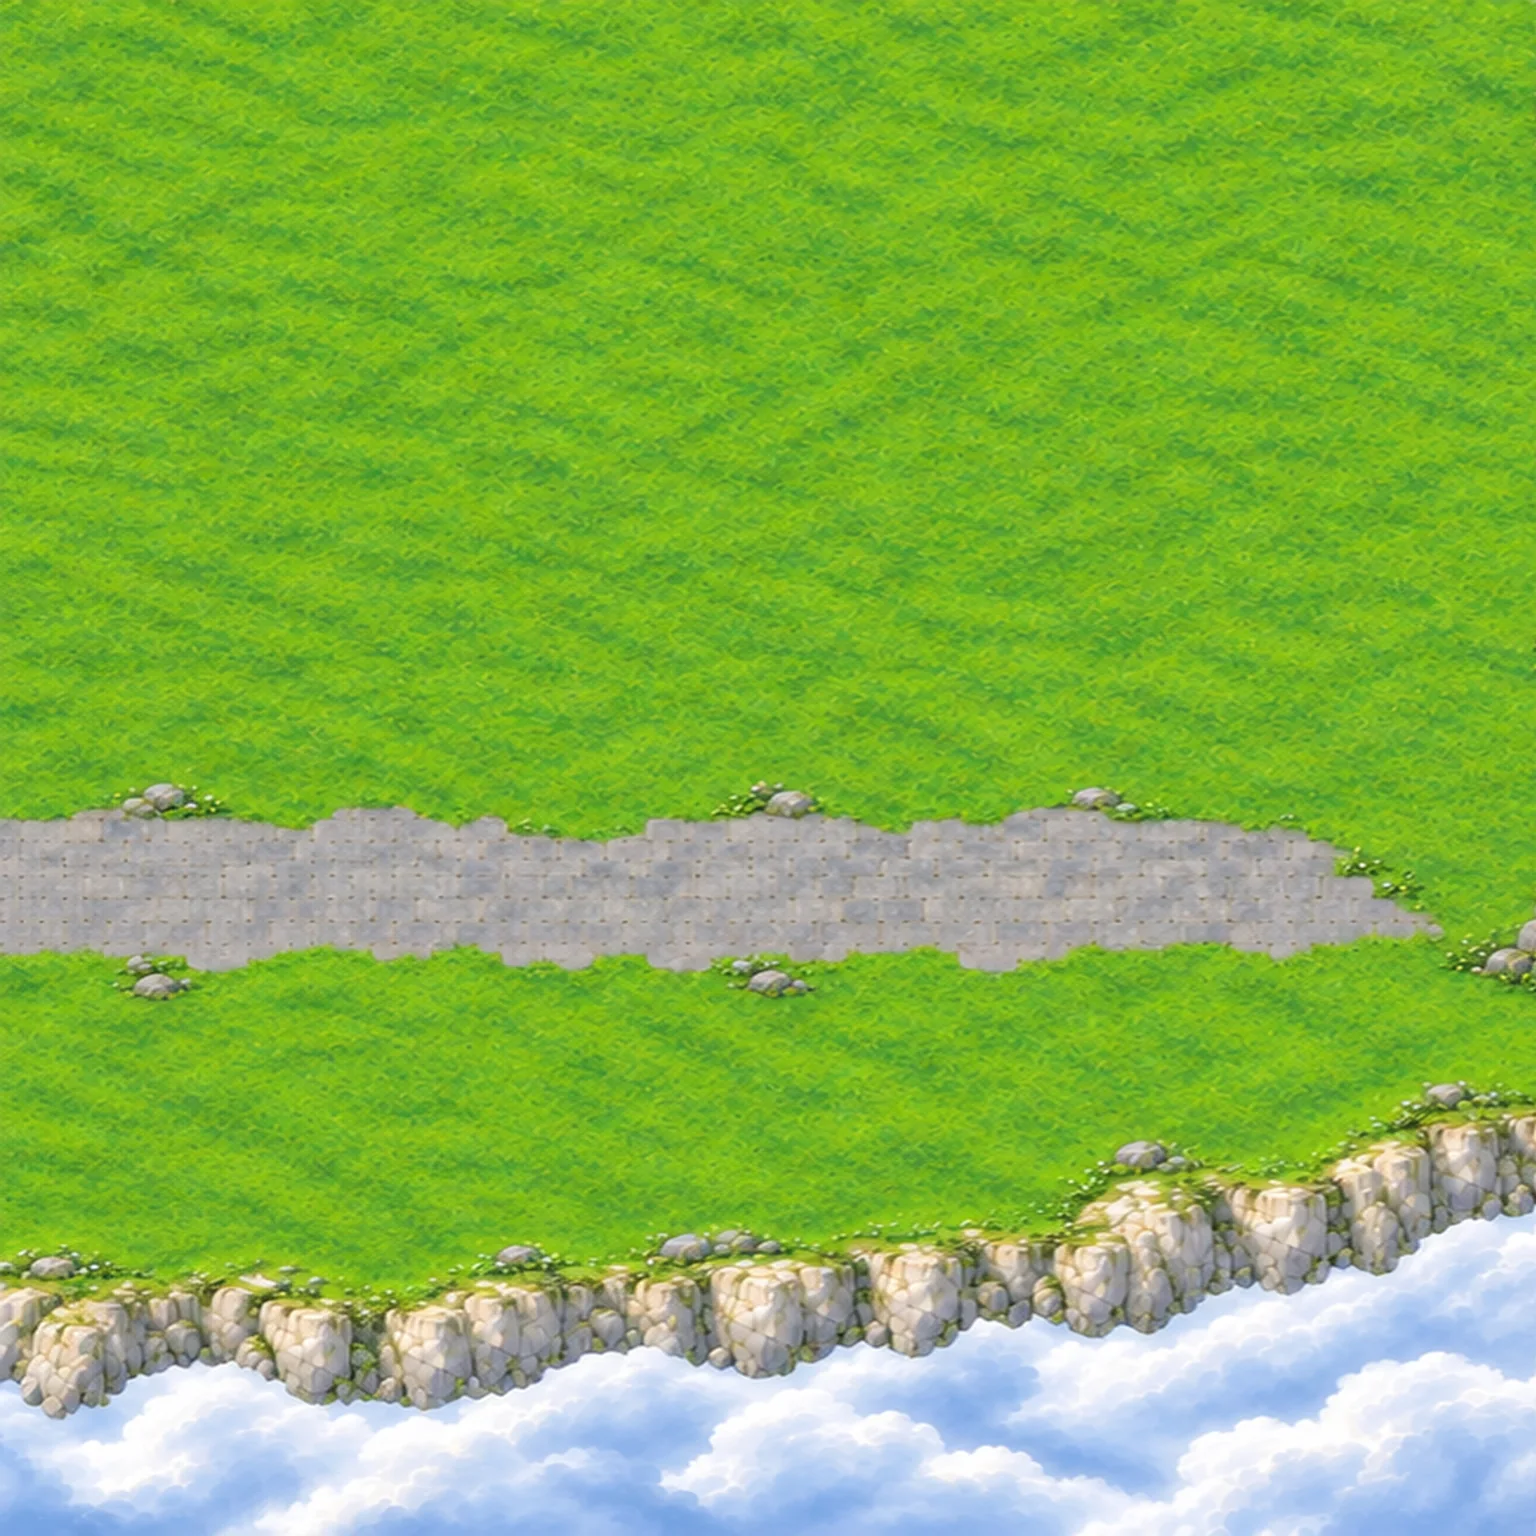
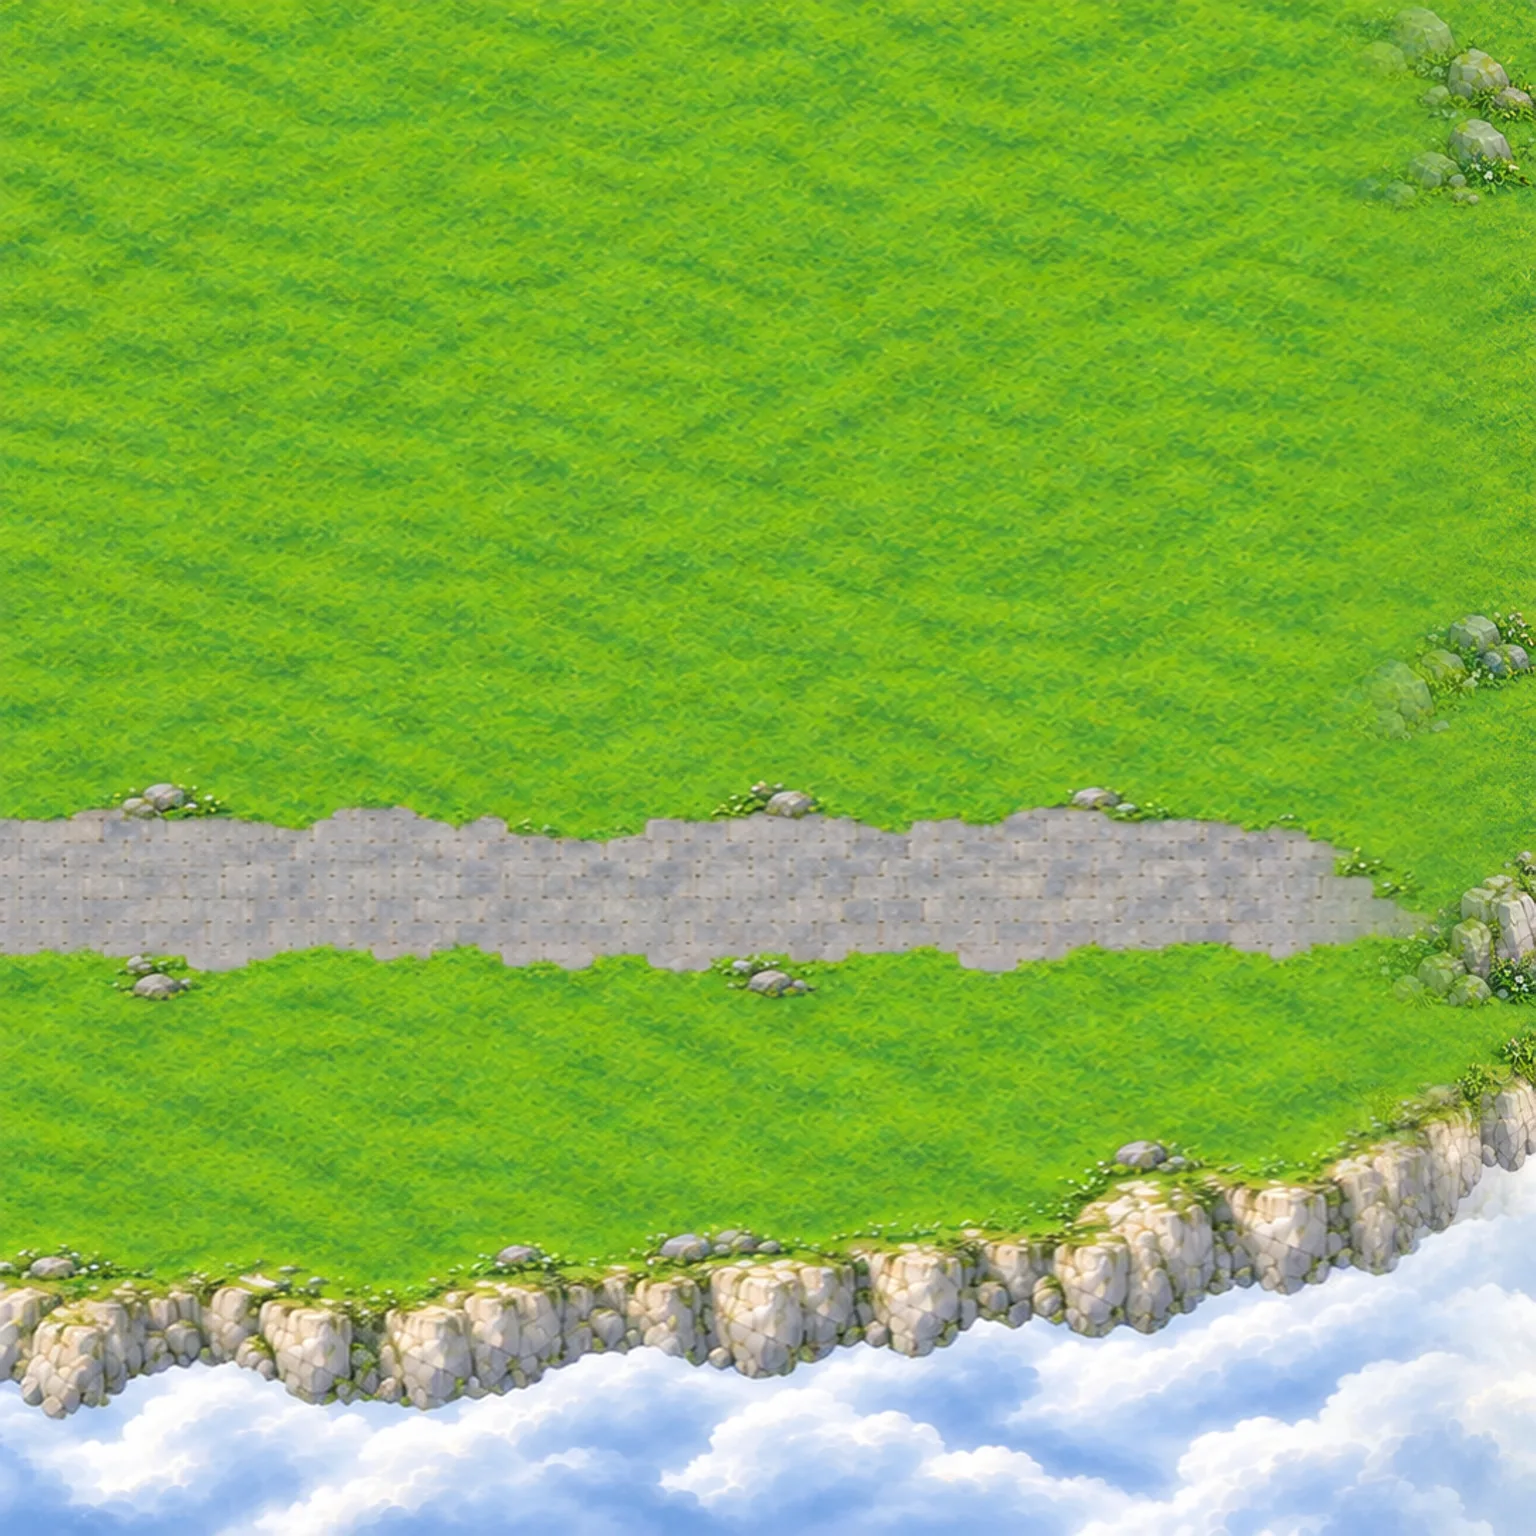
v454 云海后庭改成云海大亭往西扩建（一张图走过去，同青竹西院 T.x0/T.c0 做法）；接缝镜像羽化；观星改地图内演出
Claude-Session: https://claude.ai/code/session_01MLmwgsq8MPeyfrtaz8BRE2

Changed region(s): [[0.875, 0.0, 1.0, 1.0]]

diff --git a/game/r137_qz.js b/game/r137_qz.js
@@ -1,11 +1,12 @@
-// ================= R137 · 后山亭子（云海大亭）换小亭 + 西侧新地图「云海后庭」（Claude 11-07，Codex R134 E2 / E2b 素材）=================
-// 作者：亭子换成 Codex 新画的青绿单层小亭；西边扩出一块叶孤星和下人们一起吃饭、看星星的地方（长饭桌 A 青玉流云 + 花圃 + 崖边观星台）。
-// 下人房不放这里（作者 11-07：已挪到青竹小院），所以云海大亭里原来那栋仆役房外观和门一并撤掉。
-// 云海大亭原图坐标不动（剧情、天鹏、宝箱都按原坐标写的）；新地块做成独立小地图，从亭子西边竹林口走过去。
+// ================= R137 · 后山云海大亭：换 Codex 小亭 + 往西扩建「云海后庭」（Claude 11-07，Codex R134 E2 / E2b 素材）=================
+// 作者：亭子换成 Codex 新画的青绿单层小亭；西边扩出一块叶孤星和下人们一起吃饭、看星星的地方（长饭桌 A 青玉流云 + 牡丹/百合大花圃 + 竹林石灯 + 崖边观星台）。
+// 下人房不放这里（作者 11-07：已挪到青竹小院西院），云海大亭原来那栋仆役房外观和门一并撤掉。
+// 和青竹小院西扩（r136_west.js）同一套做法：一张图直接走过去，不是另一张图——原坐标一个不动（剧情、天鹏、宝箱照旧），
+// 扩出来的 1536px 落在 x < 0（-1536 ~ 0），碰撞表每行前面接 192 列，T.x0 / T.c0 交给引擎处理镜头、寻路、站位。
 // 关掉：localStorage.r137qz = '0'
 (function () {
-  const D = window.R137QZ, PAV = 'qingzhu_upper_pavilion', BY = 'qingzhu_backyard';
-  if (!D || typeof TMAPS === 'undefined' || !TMAPS[PAV] || typeof tileSetMap !== 'function') return;
+  const D = window.R137QZ, PAV = 'qingzhu_upper_pavilion', OX = 1536;
+  if (!D || typeof TMAPS === 'undefined' || !TMAPS[PAV] || typeof tileSetMap !== 'function' || typeof buildTileMap !== 'function') return;
   try { if (localStorage.getItem('r137qz') === '0') return; } catch (e) {}
   const R = 'r137/', ld = (k, f) => { if (IMG[k]) return; const i = new Image(); i.onload = () => { IMG[k] = i; }; i.src = R + f + '.webp'; };
   let loaded = false;
@@ -14,46 +15,49 @@
     ld('r137_by_ground', 'by_ground'); };
   setTimeout(loadAll, 12000);
   const P = (x, y) => [x / 64 - .5, y / 64 - .8];
-  const cellsX = (x0, x1) => [Math.floor(x0 / 8), Math.ceil((x1 - x0) / 8)];
+  const BB = D.by, YC = BB.cols;                                  // 扩建区 192 列 × 192 行（8px）
+  const BOBJ = BB.objs.map(o => Object.assign({}, o, { x: o.x - OX }));
+  const SP = {}; for (const k in BB.spots) SP[k] = [BB.spots[k][0] - OX, BB.spots[k][1]];
 
-  // ---------- 云海大亭：撤旧大亭 / 仆役房，换小亭 ----------
+  // ---------- 碰撞 + 物件：地图构建时把西边接上 ----------
   const M = TMAPS[PAV];
   M.exits = (M.exits || []).filter(e => e.to !== 'qingzhu_servant_room');
-  M.exits.push({ x: 0, y: 100, w: 2, h: 16, to: BY, label: '西 · 云海后庭', at: P(1470, 868), face: 'left' });
-  try { if (typeof MAP_ZOOM !== 'undefined') MAP_ZOOM[BY] = .75; } catch (e) {}
-  const fixPav = () => {
-    const T = world.map && world.map.T; if (!T || !T.block) return;
-    T.objs = T.objs.filter(o => !(o.uid && /^r90-/.test(o.uid)) && o.id !== 'r135e_house' && !/^qingzhu-r24-pavilion/.test(o.id || '') && !/^r137pav_/.test(o.uid || ''));
-    for (const o of D.pav.objs) T.objs.push(Object.assign({ bk: true }, o));
-    const B = D.pav.blocked; for (let r = 0; r < T.rows; r++) for (let c = 0; c < T.cols; c++) T.block[r][c] = B.charCodeAt(r * 256 + c) === 49 ? 1 : 0;
-  };
+  const applyBlock = T => { const PB = D.pav.blocked, YB = BB.blocked;
+    for (let r = 0; r < T.rows; r++) { const row = T.block[r]; for (let c = 0; c < YC; c++) row[c] = YB.charCodeAt(r * YC + c) === 49 ? 1 : 0; for (let c = 0; c < 256; c++) row[YC + c] = PB.charCodeAt(r * 256 + c) === 49 ? 1 : 0; }
+    T._stand = null; };
+  buildTileMap = (o => function (def) {
+    const T = o.apply(this, arguments);
+    try {
+      if (def !== M || !T || !T.baked || T.cs !== 8 || T.rows !== BB.rows || T.c0) return T;
+      for (let r = 0; r < T.rows; r++) T.block[r] = new Array(YC).fill(1).concat(T.block[r]);
+      T.c0 = -YC; T.x0 = -OX; T.cols += YC; applyBlock(T);
+      T.objs = T.objs.filter(ob => !(ob.uid && /^r90-/.test(ob.uid)) && ob.id !== 'r135e_house' && !/^qingzhu-r24-pavilion/.test(ob.id || ''));
+      for (const ob of D.pav.objs.concat(BOBJ)) T.objs.push(Object.assign({ bk: true }, ob));
+    } catch (e) { console.warn('r137', e); }
+    return T;
+  })(buildTileMap);
+  // 扩建区地面画在原图左边
+  drawGroundVis = (o => function (g, cam) {
+    try { const T = world.map && world.map.T; if (T && T.x0 === -OX && world.mapName === PAV && IMG.r137_by_ground) ctx.drawImage(IMG.r137_by_ground, T.x0, 0); } catch (e) {}
+    return o.apply(this, arguments);
+  })(drawGroundVis);
 
-  // ---------- 云海后庭（新地图）----------
-  const BB = D.by, sp = BB.spots;
-  const spot = (name, [x, y], talk, h) => { const [c, r] = P(x, y); return { key: 'none', c, r, name, hidden: true, h: h || 120, talk }; };
-  TMAPS[BY] = {
-    title: '云海后庭', leaves: true, chests: [],
-    baked: { ground: 'r137_by_ground', w: BB.w, h: BB.h, cs: BB.cs, cols: BB.cols, rows: BB.rows, blocked: BB.blocked, objs: BB.objs },
-    start: P(1460, 868),
-    exits: [{ x: 189, y: 100, w: 3, h: 16, to: PAV, label: '东 · 云海大亭', at: P(64, 868), face: 'right' }],
-    npcs: [
-      spot('青玉长桌', sp.dining, [async () => {
-        await say('', '一张青玉面的长桌，六把圈椅。桌上只摆了一瓶花、一件小玉饰。');
-        await say('叶孤星', '（管家说，以后院里的人都在这儿一起吃饭——不分主仆。）');
-      }], 130),
-      spot('崖边观星台', sp.star, [() => window.R137_STARGAZE && R137_STARGAZE()], 110),
-      spot('牡丹花圃', sp.garden_l, ['花圃里的牡丹开得正好，土还是湿的——早上刚浇过。'], 110),
-      spot('百合花圃', sp.garden_r, ['百合的香气淡淡的。花丛边插着一块小木牌：「小桃种，勿踩」。'], 110),
-    ],
-  };
-  // 每个 spot 的 talk 如果是函数数组，按顺序执行（和游戏里 talk: async fn 的写法兼容）
-  for (const n of TMAPS[BY].npcs) if (Array.isArray(n.talk) && typeof n.talk[0] === 'function') { const fs = n.talk; n.talk = async () => { for (const f of fs) await f(); }; }
+  // ---------- 扩建区里的可调查点 ----------
+  M.npcs = M.npcs || [];
+  const spot = (name, [x, y], talk, h) => { const [c, r] = P(x, y); M.npcs.push({ key: 'none', c, r, name, hidden: true, h: h || 120, talk }); };
+  spot('青玉长桌', SP.dining, async () => {
+    await say('', '一张青玉面的长桌，六把圈椅。桌上只摆了一瓶花、一件小玉饰。');
+    await say('叶孤星', '（管家说，以后院里的人都在这儿一起吃饭——不分主仆。）');
+  }, 130);
+  spot('崖边观星台', SP.star, () => window.R137_STARGAZE && R137_STARGAZE(), 110);
+  spot('牡丹花圃', SP.garden_l, ['花圃里的牡丹开得正好，土还是湿的——早上刚浇过。'], 110);
+  spot('百合花圃', SP.garden_r, ['百合的香气淡淡的。花丛边插着一块小木牌：「小桃种，勿踩」。'], 110);
 
   // ---------- 观星：在地图里演（作者 11-07：禁止插画）——走到崖边、天色暗下来、云海上空星星一颗颗亮起、划过一道流星 ----------
   const SG = { a: 0, on: false, t0: 0 };
   window.R137_STARGAZE = async function () {
     if (SG.on) return; SG.on = true; world.locked = true;
-    const p = world.player, seat = BB.spots.star;
+    const p = world.player, seat = SP.star;
     try { if (typeof moveActor === 'function') await moveActor(p, seat[0], seat[1], 170); p.face = 'down'; } catch (e) {}
     SG.t0 = performance.now() / 1000;
     await (typeof tween === 'function' ? tween(1400, t => SG.a = t) : Promise.resolve(SG.a = 1));
@@ -78,7 +82,7 @@
   // 观星：整张图压成夜色，屏幕上方（云海上空）星点渐亮 + 北斗连线 + 一道流星；全是代码画在地图上，不切插画
   tileDraw = (orig => function () {
     orig.apply(this, arguments);
-    if (!(SG.a > 0) || world.mapName !== BY) return;
+    if (!(SG.a > 0) || world.mapName !== PAV) return;
     const a = SG.a, t = performance.now() / 1000 - SG.t0, cam = world.cam || { x: 0, y: 0 }, yT = Math.max(0, Math.min(H, (1300 - cam.y) * VZ())), bh = H - yT;   // 星星只出在崖外云海上空
     ctx.save();
     ctx.globalCompositeOperation = 'multiply'; ctx.fillStyle = `rgba(${255 - 190 * a | 0},${255 - 180 * a | 0},${255 - 120 * a | 0},1)`; ctx.fillRect(0, 0, W, H);
@@ -86,7 +90,7 @@
     let g = ctx.createLinearGradient(0, yT, 0, H); g.addColorStop(0, `rgba(30,36,90,${.5 * a})`); g.addColorStop(1, `rgba(10,14,48,${.7 * a})`); ctx.fillStyle = g; ctx.fillRect(0, yT, W, bh);
     ctx.globalCompositeOperation = 'lighter';
     { const z = VZ(); ctx.save(); ctx.scale(z, z); ctx.translate(-Math.round(cam.x), -Math.round(cam.y));   // 石灯在夜里亮起
-      for (const o of BB.objs) if (o.id === 'r137_lantern') { const x = o.x + o.w / 2, y = o.y + o.h * .32, f = .9 + .1 * Math.sin(t * 6 + o.x);
+      for (const o of BOBJ) if (o.id === 'r137_lantern') { const x = o.x + o.w / 2, y = o.y + o.h * .32, f = .9 + .1 * Math.sin(t * 6 + o.x);
         let gg = ctx.createRadialGradient(x, y, 0, x, y, 120); gg.addColorStop(0, `rgba(255,214,140,${.55 * a * f})`); gg.addColorStop(.35, `rgba(255,180,90,${.18 * a * f})`); gg.addColorStop(1, 'rgba(255,170,80,0)'); ctx.fillStyle = gg; ctx.fillRect(x - 120, y - 120, 240, 240);
         gg = ctx.createRadialGradient(x, o.y + o.h, 0, x, o.y + o.h, 150); gg.addColorStop(0, `rgba(255,196,120,${.22 * a})`); gg.addColorStop(1, 'rgba(255,196,120,0)'); ctx.save(); ctx.translate(x, o.y + o.h); ctx.scale(1, .45); ctx.translate(-x, -(o.y + o.h)); ctx.fillStyle = gg; ctx.fillRect(x - 150, o.y + o.h - 150, 300, 300); ctx.restore(); }
       ctx.restore(); }
@@ -108,9 +112,9 @@
   })(drawBaked);
 
   tileSetMap = (orig => function (name) {
-    if (name === PAV || name === BY || /^qingzhu_/.test(name || '')) loadAll();
+    if (/^qingzhu_/.test(name || '')) loadAll();
     const res = orig.apply(this, arguments);
-    try { if (name === PAV) fixPav(); } catch (e) { console.warn('r137', e); }
+    try { const T = world.map && world.map.T; if (name === PAV && T && T.x0 === -OX) { T.objs = T.objs.filter(ob => !(ob.uid && /^r90-/.test(ob.uid)) && ob.id !== 'r135e_house'); applyBlock(T); } } catch (e) { console.warn('r137', e); }   // 旧亭子 r90 进图时按老坐标改碰撞，这里整张重写
     return res;
   })(tileSetMap);
 })();
